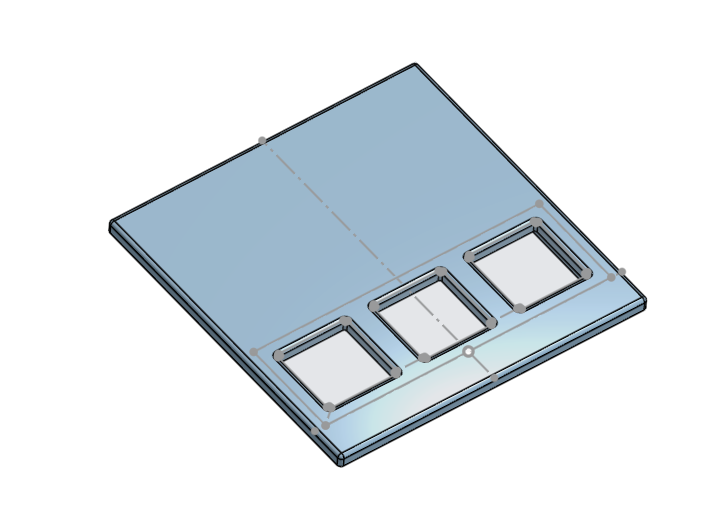
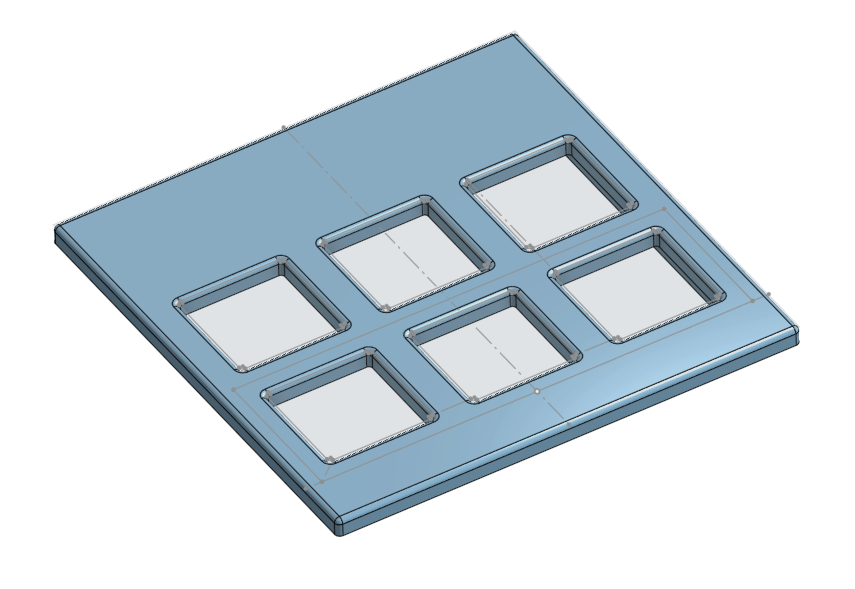
Updated Images for V2 Design

diff --git a/README.md b/README.md
@@ -1,8 +1,7 @@
 I made a Spotify Display using an ESP-C3 to let me control music from spotify. I can see what is currently playing from the LCD display
-and I have 3 keys at the top to actually control my music.
+and I have 6 keys at the top to actually control my music, timers, clock, etc.
 
-My project is a spotify player that lets me control the music that I am playing without having to switch windows on my laptop.
-This also taught me how to CAD better and quicker
+I started this off by following the guide, but now am trying to make it so I can use it as another peripheral in my setup.
 
 Here are some photos of the Full Display:
 
